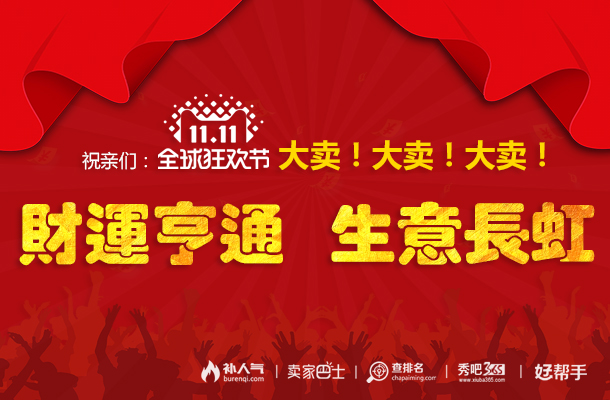
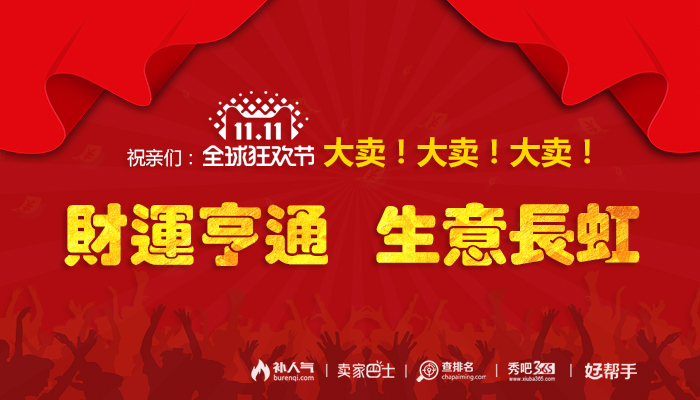
首页样式修改

diff --git a/src/view/Home.vue b/src/view/Home.vue
@@ -23,23 +23,23 @@
             <Carousel autoplay :autoplay-speed="5000">
               <Carousel-item>
                 <router-link to="" class="block">
-                  <img width="700" height="400" class="block" src="~assets/img/home/banner_01.jpg" alt="">
+                  <img class="block" src="~assets/img/home/banner_01.jpg" alt="">
                 </router-link>
 
               </Carousel-item>
               <Carousel-item>
                 <router-link to="" class="block">
-                  <img width="700" height="400" class="block" src="~assets/img/home/banner_02.jpg" alt="">
+                  <img  class="block" src="~assets/img/home/banner_02.jpg" alt="">
                 </router-link>
               </Carousel-item>
               <Carousel-item>
                 <router-link to="" class="block">
-                 <img width="700" height="400" class="block" src="~assets/img/home/banner_05.jpg" alt="">
+                 <img  class="block" src="~assets/img/home/banner_03.jpg" alt="">
                 </router-link>
               </Carousel-item>
               <Carousel-item>
                 <router-link to="" class="block">
-                  <img width="700" height="400" class="block" src="~assets/img/home/banner_04.jpg" alt="">
+                  <img  class="block" src="~assets/img/home/banner_04.jpg" alt="">
                 </router-link>
               </Carousel-item>
             </Carousel>
